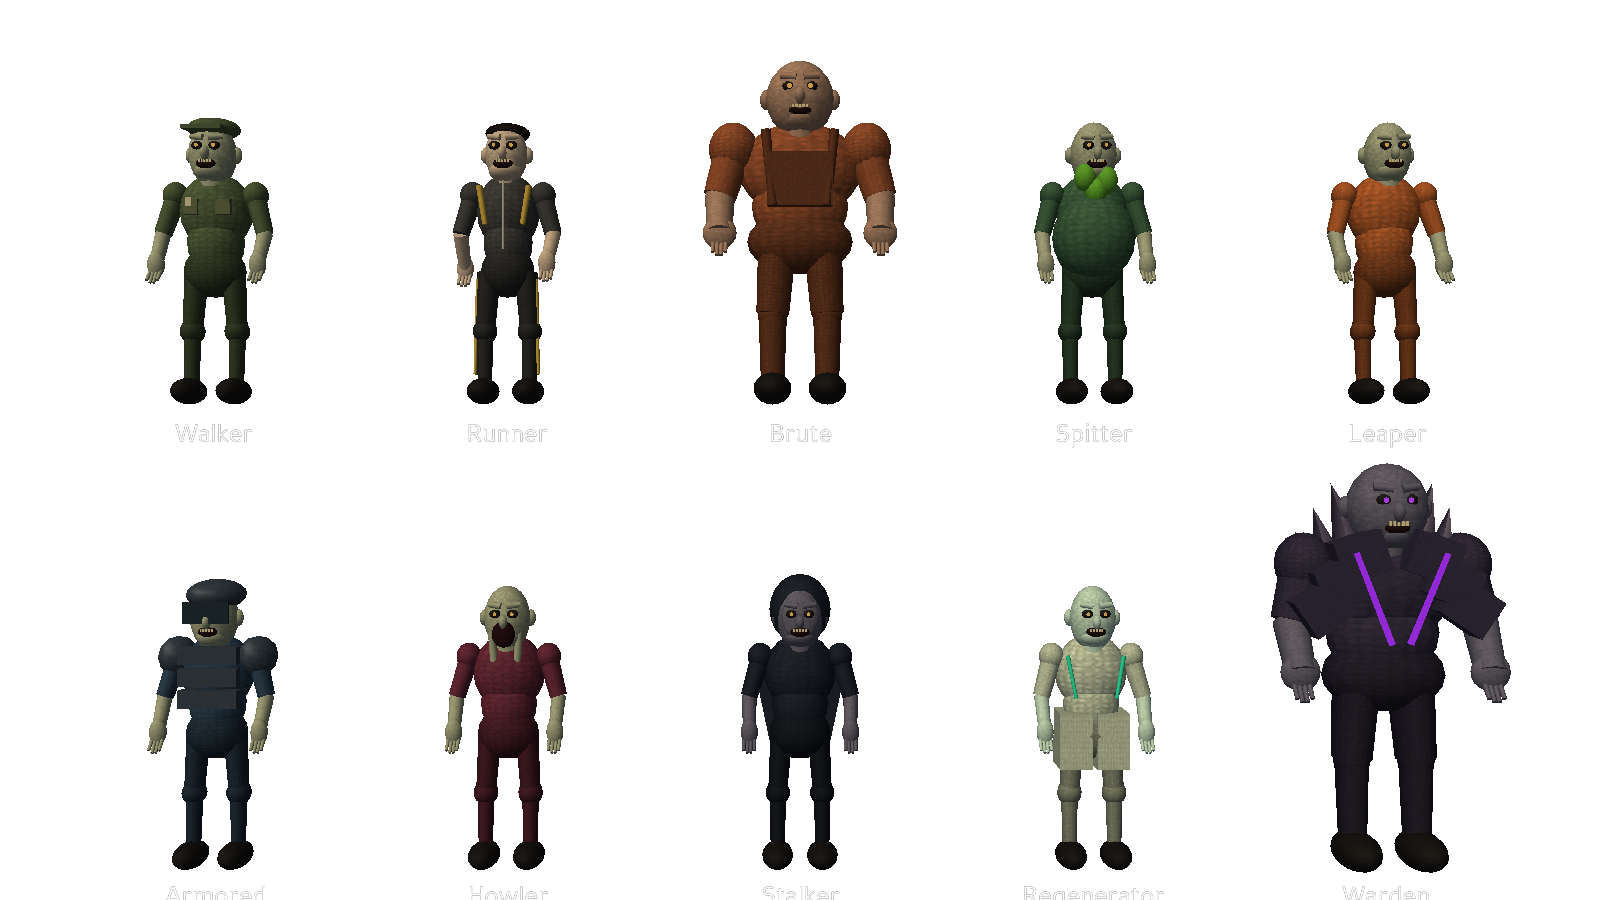
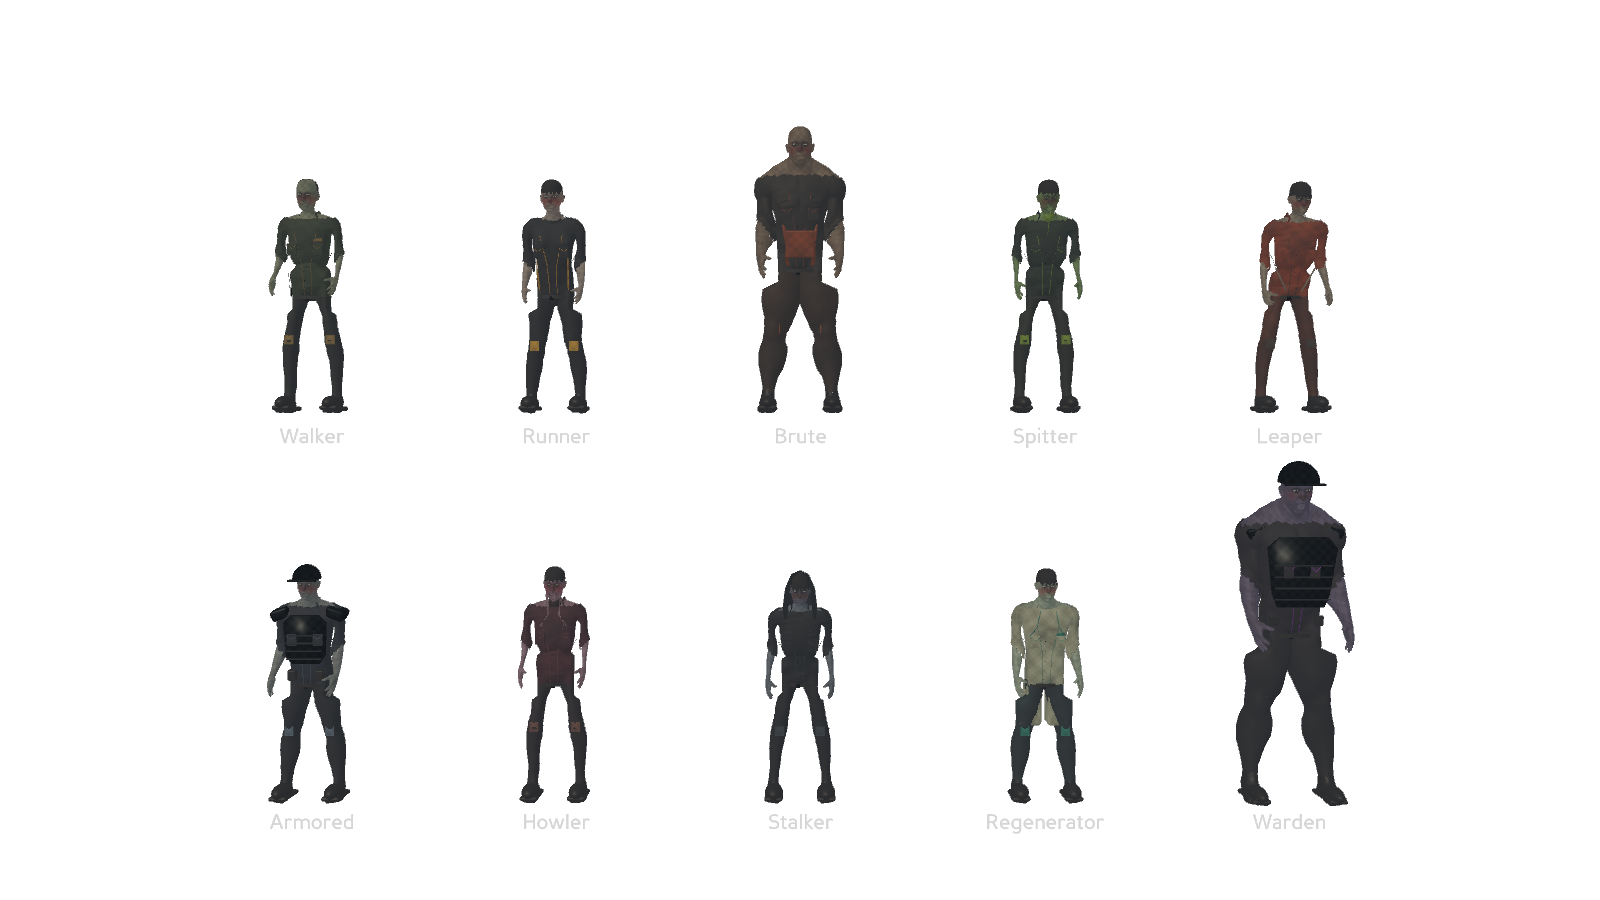
fix(preview): frame and light the complete zombie roster

diff --git a/breach_shift/art/preview.py b/breach_shift/art/preview.py
@@ -41,17 +41,18 @@ def main() -> None:
         import simplepbr
         simplepbr.init(enable_shadows=False, use_normal_maps=True, msaa_samples=2)
         game.disableMouse()
-        game.setBackgroundColor(.055, .065, .08)
+        from breach_shift.art.color import atmosphere_input
+        game.setBackgroundColor(*atmosphere_input((.035, .045, .06)))
         ambient = AmbientLight("preview-fill")
-        ambient.setColor((.5, .52, .55, 1))
+        ambient.setColor((.72, .76, .82, 1))
         game.render.setLight(game.render.attachNewNode(ambient))
         key = DirectionalLight("preview-key")
-        key.setColor((.9, .82, .70, 1))
+        key.setColor((1.7, 1.5, 1.25, 1))
         light = game.render.attachNewNode(key)
         light.setHpr(-30, -40, 0)
         game.render.setLight(light)
         if arguments.mode == "roster":
-            game.camera.setPos(0, -10, 2.8)
+            game.camera.setPos(0, -12, 2.7)
             game.camera.lookAt(0, 0, 2.7)
             game.camLens.setFov(55)
             for index, kind in enumerate(ZOMBIE_ORDER):
@@ -68,6 +69,7 @@ def main() -> None:
                 node.setScale(.16)
                 node.setBillboardPointEye()
                 node.setLightOff(2)
+                node.setShaderOff(2)
         else:
             game.camera.setPos(1.7, -2.9, 1.6)
             game.camera.lookAt(0, .2, 0)
